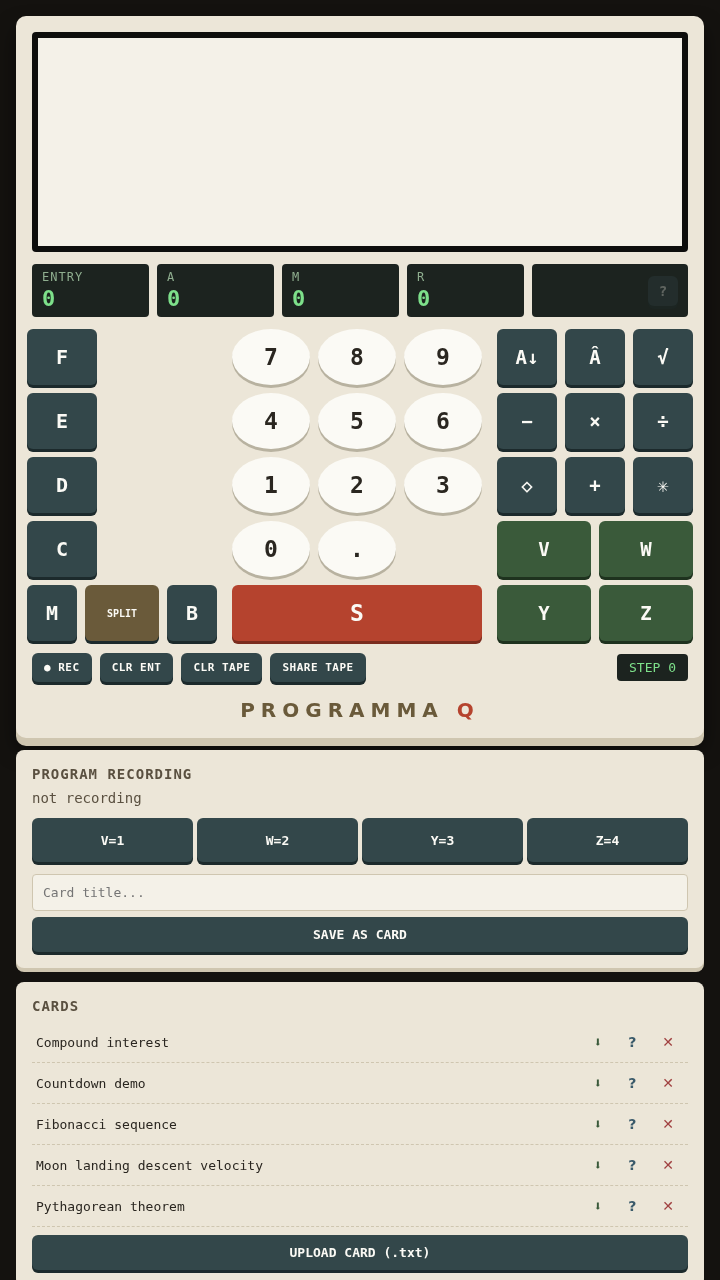
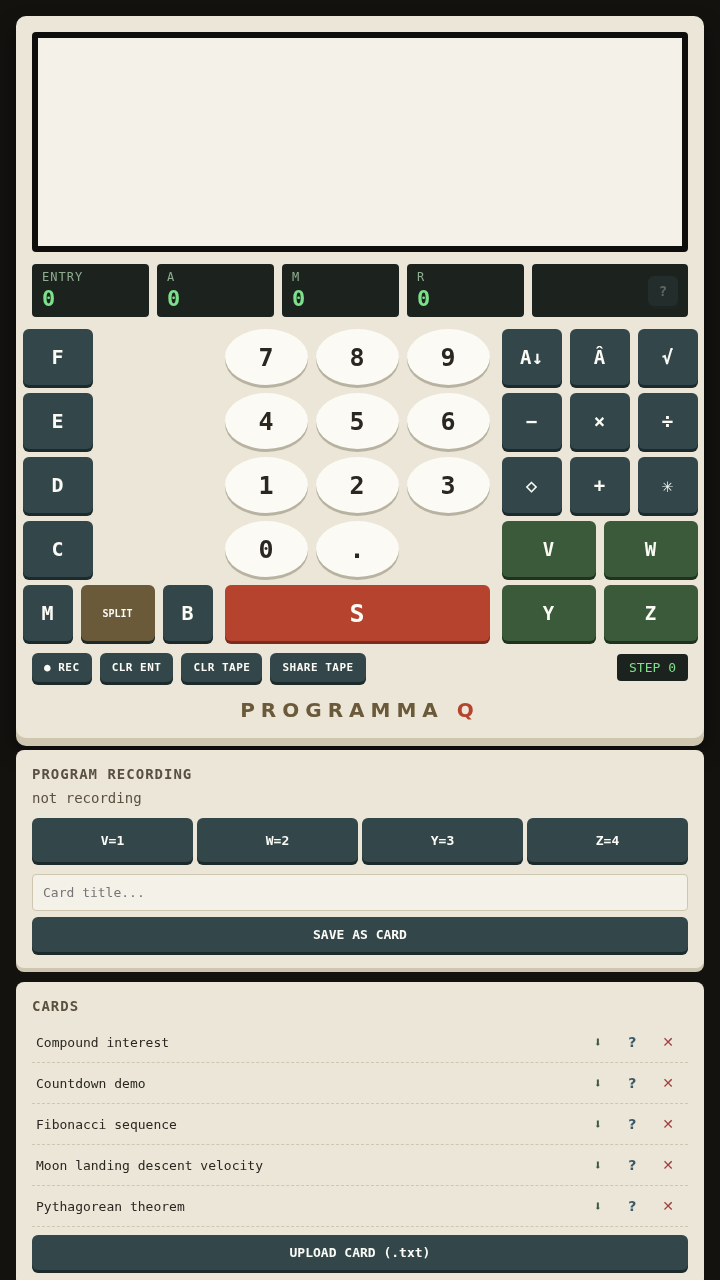
Tighten kiosk keypad-to-register gap further
Bump keypad cell size and trim the touch breakpoint's inter-cluster gap so
the numpad sits close against the register keys and ops-grid on both sides,
closing the leftover dead space flagged in the kiosk mockup.

diff --git a/assets/style.css b/assets/style.css
@@ -568,16 +568,16 @@ html, body {
 @media (max-width: 820px) {
   :root {
     --key-h: 56px;
-    --num-size: 78px;
+    --num-size: 83px;
     --op-size: 60px;
     --reg-size: 70px;
     --reg-size-small: 50px;
     --split-size: 74px;
     --font-key: 20px;
-    --font-num: 23px;
+    --font-num: 25px;
     --font-op: 19px;
     --key-gap: 8px;
-    --controls-gap: 15px;
+    --controls-gap: 12px;
     --tape-h: 220px;
   }
 
